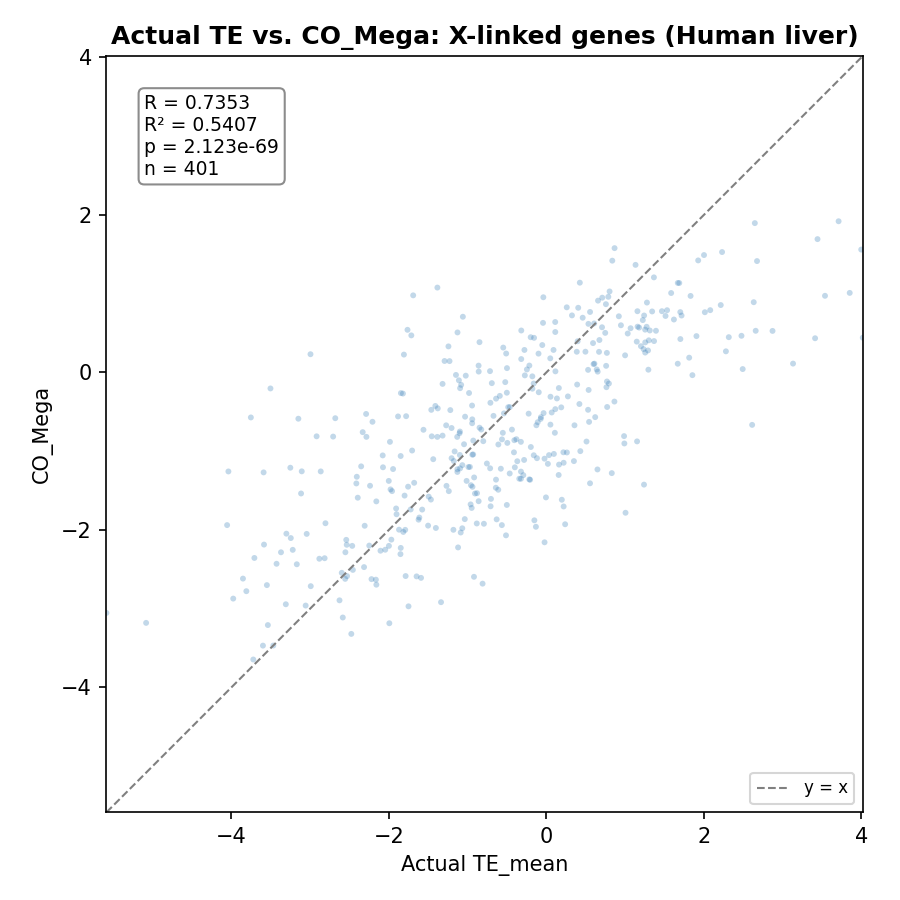
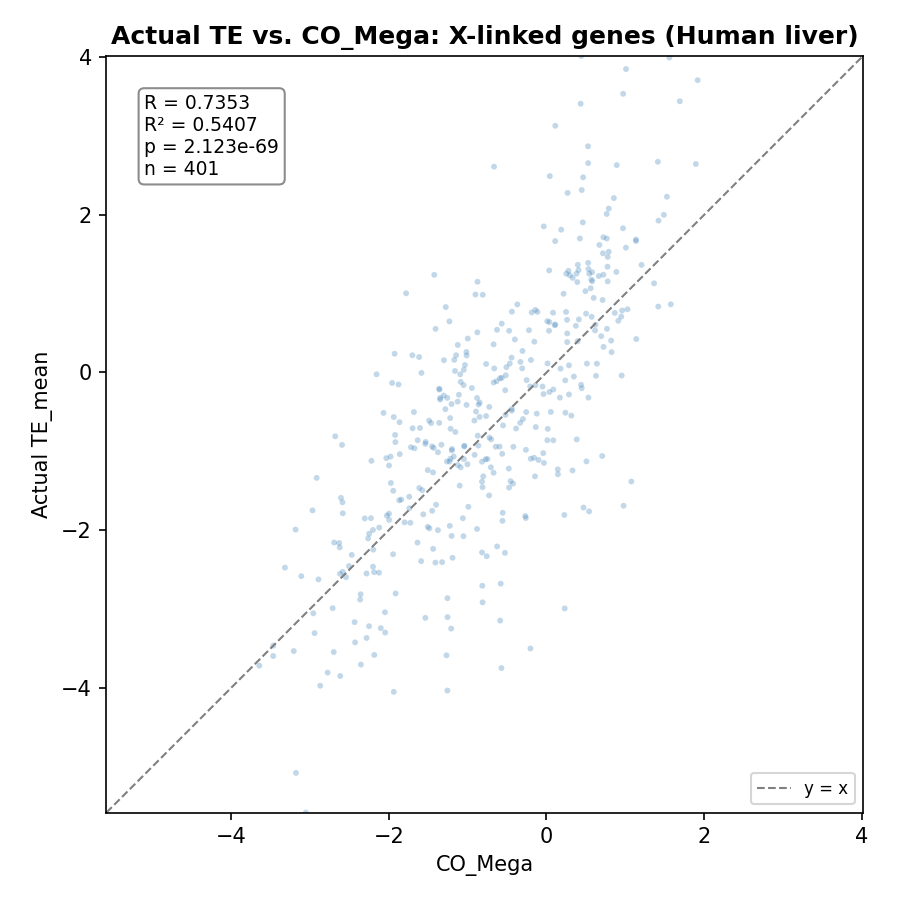
Added scatter plots of actual vs predicted TE for Tim's mouse data.

diff --git a/scripts/mouse_codon_Tim_reconstruction.py b/scripts/mouse_codon_Tim_reconstruction.py
@@ -50,7 +50,7 @@ from co_mega import SENSE_CODONS
 from co_mega_common import (
     fit_co_mega_te_model, save_coefficient_table, bootstrap_codon_pearson_r,
     plot_codon_pearson_r_barplot, ordinary_codon_pearson_r, plot_codon_pearson_r_barplot_ci,
-    plot_pearson_r_comparison_scatter,
+    plot_pearson_r_comparison_scatter, plot_actual_vs_predicted, precise_pvalue_str,
 )
 from mouse_codon_frequency_comparison import load_tim_codon_frequencies, convert_old_to_new_id
 
@@ -60,10 +60,10 @@ MART_FILE      = os.path.join(BASE_DIR, "data/refseq_to_ensemble_mouse_mart_expo
 TABLE_DIR      = os.path.join(BASE_DIR, "tables/testing_Tim")
 FIG_DIR        = os.path.join(BASE_DIR, "figures/testing_Tim")
 
-# -- Tim's mouse cortical-culture TE table (disabled; see main()) --
-# TIM_TE_FILE_CORTICAL = os.path.join(BASE_DIR, "data/Tim_data_TE_mouse_corticalculture.csv")
-# SUFFIX_CORTICAL       = "Tim_mouse_corticalculture"
-# TISSUE_LABEL_CORTICAL = "Tim's mouse cortical culture"
+# -- Tim's mouse cortical-culture TE table --
+TIM_TE_FILE_CORTICAL = os.path.join(BASE_DIR, "data/Tim_data_TE_mouse_corticalculture.csv")
+SUFFIX_CORTICAL       = "Tim_mouse_corticalculture"
+TISSUE_LABEL_CORTICAL = "Tim's mouse cortical culture"
 
 # -- Tim's mouse liver TE table (active) --
 TIM_TE_FILE_LIVER = os.path.join(BASE_DIR, "data/Tim_data_TE_mouse_liver.csv")
@@ -117,6 +117,15 @@ def run_te_analysis(tim_codon_df, te_file, suffix, tissue_label):
     print(f"  R^2 = {model.rsquared:.4f}   Adjusted R^2 = {model.rsquared_adj:.4f}   n = {int(model.nobs)}")
     out_coef = tbl(f"co_mega_model_coefficients_{suffix}")
     save_coefficient_table(coef, model, SENSE_CODONS, out_coef)
+
+    r_train, _ = stats.pearsonr(merged['TE_mean'], model.fittedvalues)
+    p_train_str = precise_pvalue_str(r_train, len(merged))
+    plot_actual_vs_predicted(
+        merged['TE_mean'], model.fittedvalues,
+        f'Actual TE (log10.TR, {tissue_label})', 'Fitted TE (OLS model)',
+        f'TE ~ codon frequencies: Actual vs. Fitted\n({tissue_label})',
+        r_train, p_train_str, fig(f"co_mega_regression_fit_train_{suffix}")
+    )
 
     print("\n[5a] Per-codon Pearson r with TE (bootstrap SD)...")
     r_df_boot = bootstrap_codon_pearson_r(merged[SENSE_CODONS], merged['TE_mean'], SENSE_CODONS)
@@ -189,10 +198,10 @@ def main():
     tim_codon_df = load_tim_codon_frequencies(TIM_CODON_FILE)
     tim_codon_df = convert_old_to_new_id(tim_codon_df, MART_FILE)
 
-    # -- Tim's mouse cortical-culture TE data (disabled) --
-    # run_te_analysis(tim_codon_df, TIM_TE_FILE_CORTICAL, SUFFIX_CORTICAL, TISSUE_LABEL_CORTICAL)
+    # -- Tim's mouse cortical-culture TE data --
+    run_te_analysis(tim_codon_df, TIM_TE_FILE_CORTICAL, SUFFIX_CORTICAL, TISSUE_LABEL_CORTICAL)
 
-    # -- Tim's mouse liver TE data (active) --
+    # -- Tim's mouse liver TE data --
     run_te_analysis(tim_codon_df, TIM_TE_FILE_LIVER, SUFFIX_LIVER, TISSUE_LABEL_LIVER)
 
     print("\n=== Done ===")

diff --git a/scripts/co_mega_common.py b/scripts/co_mega_common.py
@@ -134,28 +134,30 @@ def save_coefficient_table(coef, model, codons, out_file):
     return coef_df
 
 
-# ── Plot: actual vs. predicted / CO_Mega scatter ────────────────────────────
-def plot_actual_vs_predicted(actual, predicted, xlabel, ylabel, title, r, p_str, output_file):
+# ── Plot: predicted vs. actual / CO_Mega scatter ────────────────────────────
+def plot_actual_vs_predicted(actual, predicted, actual_label, predicted_label, title, r, p_str, output_file):
     """
-    Scatter of some 'actual' quantity vs. a model-derived 'predicted' one
-    (e.g. actual TE_mean vs. fitted TE_mean, or actual TE_mean vs. CO_Mega),
-    with a y = x reference line, equal axis scales, and R / R^2 / p / n
-    annotated.
+    Scatter of a model-derived 'predicted' quantity (x-axis) vs. the
+    corresponding 'actual' quantity (y-axis) (e.g. predicted/fitted TE_mean
+    or CO_Mega on x, actual TE_mean on y), with a y = x reference line,
+    equal axis scales, and R / R^2 / p (scientific notation) / n annotated.
+    R and R^2 are unaffected by which quantity is plotted on which axis
+    (Pearson correlation is symmetric).
     """
     actual = np.asarray(actual, dtype=float)
     predicted = np.asarray(predicted, dtype=float)
     r_squared = r ** 2
 
     fig, ax = plt.subplots(figsize=(6, 6))
-    ax.scatter(actual, predicted, s=8, alpha=0.3, color='#377EB8', edgecolor='none')
+    ax.scatter(predicted, actual, s=8, alpha=0.3, color='#377EB8', edgecolor='none')
     lims = [min(actual.min(), predicted.min()), max(actual.max(), predicted.max())]
     ax.plot(lims, lims, color='gray', linestyle='--', linewidth=1, label='y = x')
     ax.set_xlim(lims)
     ax.set_ylim(lims)
     ax.set_aspect('equal', adjustable='box')
 
-    ax.set_xlabel(xlabel)
-    ax.set_ylabel(ylabel)
+    ax.set_xlabel(predicted_label)
+    ax.set_ylabel(actual_label)
     ax.set_title(title, fontweight='bold')
     ax.annotate(f"R = {r:.4f}\nR\u00b2 = {r_squared:.4f}\np = {p_str}\nn = {len(actual):,}",
                 xy=(0.05, 0.95), xycoords='axes fraction', va='top', ha='left', fontsize=9,
